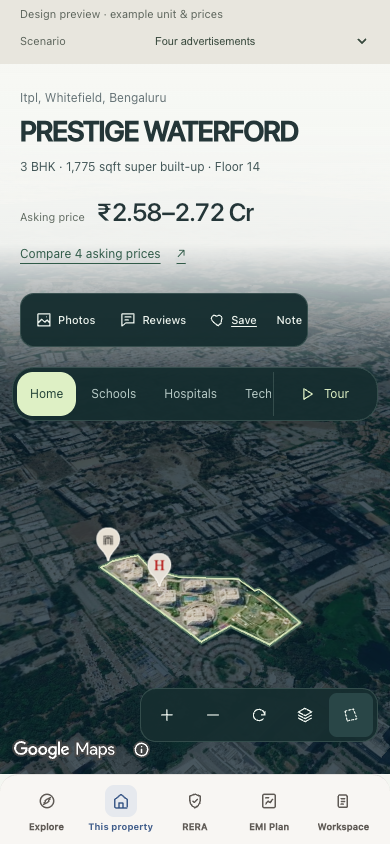
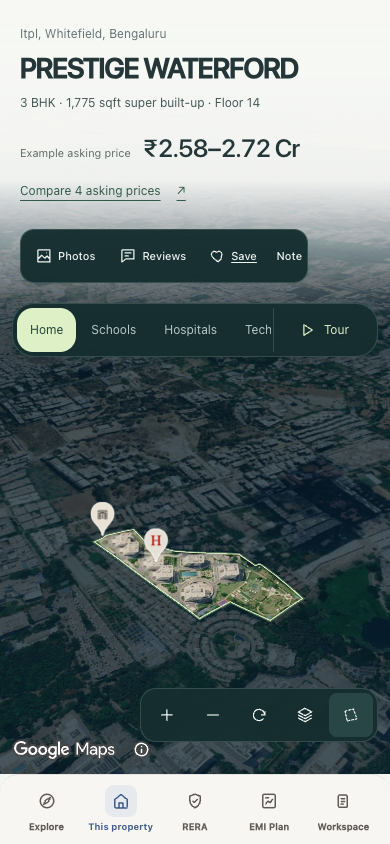
Remove Market trail and developer toolbar from property experience

diff --git a/frontend/src/components/property/PropertyAtlasContent.tsx b/frontend/src/components/property/PropertyAtlasContent.tsx
@@ -1,35 +1,7 @@
 import { useState } from "react";
-import { Link } from "react-router-dom";
-import type { PropertyDetailResponse, ProofFocus } from "../../lib/types.ts";
 import type { PropertyStoryModel } from "../../lib/propertyStory.ts";
-import { humanizeFactText, visibleEvidenceSections } from "../../lib/evidence.ts";
-import { hrefWithSearchSpan, searchSpanReferenceForTarget } from "../../lib/navigationContext.ts";
-import { useSearchSpan } from "../workspace/SearchSpanContext.ts";
 import { ImageWithFallback } from "../ImageWithFallback.tsx";
 import { AtlasIcon } from "./AtlasIcon.tsx";
-
-type EvidenceSection = NonNullable<PropertyDetailResponse["evidence"]>["sections"][number];
-
-function compactMarketItems(section: EvidenceSection) {
-  const seenSources = new Set<string>();
-  const limit = section.presentation?.max_preview_items ?? 6;
-  return section.items
-    .filter((item) => item.value?.trim() || item.values?.length)
-    .filter((item) => {
-      const sourceIdentity = item.source_url?.trim();
-      if (!sourceIdentity) return true;
-      if (seenSources.has(sourceIdentity)) return false;
-      seenSources.add(sourceIdentity);
-      return true;
-    })
-    .slice(0, limit);
-}
-
-function marketValue(item: ReturnType<typeof compactMarketItems>[number]) {
-  const value = humanizeFactText(item.values?.length ? item.values.join(" · ") : item.value).trim();
-  const separator = value.indexOf(":");
-  return separator > 0 && separator < 64 ? value.slice(separator + 1).trim() : value;
-}
 
 export function PropertyAtlasPhotos({ story }: { story: PropertyStoryModel }) {
   const [index, setIndex] = useState(0);
@@ -54,45 +26,5 @@ export function PropertyAtlasPhotos({ story }: { story: PropertyStoryModel }) {
       </div>
       {frame?.sourceUrl && <a href={frame.sourceUrl} target="_blank" rel="noreferrer">Source ↗</a>}
     </div>
-  );
-}
-
-/** The lower property chapter owns market context; other evidence stays on its primary surface. */
-export function PropertyAtlasFacts({ data, story, focus }: {
-  data: PropertyDetailResponse;
-  story: PropertyStoryModel;
-  focus?: ProofFocus;
-}) {
-  const searchContext = useSearchSpan();
-  const sections = visibleEvidenceSections(data.evidence?.sections);
-  const market = sections.find((section) => section.kind === "market");
-  const items = market ? compactMarketItems(market) : [];
-  const records = [...new Map(story.recordCards.map(record => [record.href, record])).values()];
-  if (!market && !records.length) return null;
-  const focused = Boolean(market && focus?.destinationKind === "section" && market.items.some(item =>
-    item.key === focus.factKey && (!focus.entityId || item.entity_id === focus.entityId)));
-  return (
-    <section className="property-atlas-facts" aria-label="Property information">
-      <header>
-        <h2>{market?.title ?? "Market trail"}</h2>
-        {records.length > 0 && <nav aria-label="Property reports">
-          {records.map(record => <Link key={record.href} to={hrefWithSearchSpan(record.href, searchSpanReferenceForTarget(searchContext, data.property.id))}>
-            {record.label}<span aria-hidden="true"> ↗</span>
-          </Link>)}
-        </nav>}
-      </header>
-      {market && items.length > 0 ? (
-        <dl id="property-topic-market" tabIndex={-1} data-proof-focused={focused || undefined}>
-          {items.map((item, index) => (
-            <div key={`${item.entity_id}:${item.key ?? item.label}:${index}`}>
-              <dt>{item.label}</dt>
-              <dd>{marketValue(item)}
-                {item.source_url && <a href={item.source_url} target="_blank" rel="noreferrer" aria-label={`Open source for ${item.label}`}>↗</a>}
-              </dd>
-            </div>
-          ))}
-        </dl>
-      ) : null}
-    </section>
   );
 }

diff --git a/frontend/prototypes/inventory-truth/IntegratedProperty.tsx b/frontend/prototypes/inventory-truth/IntegratedProperty.tsx
@@ -3,21 +3,20 @@ import { useParams, useSearchParams } from "react-router-dom";
 import { PropertyPage } from "../../src/pages/PropertyPage.tsx";
 import fixture from "../../fixtures/prestige-waterford-api/manifest.json";
 import { getCatalog, getDetail } from "./api.ts";
-import type { InventoryCatalog } from "./generated/InventoryCatalog.ts";
 import type { InventoryDetail } from "./generated/InventoryDetail.ts";
 import { InventoryReceipts } from "./InventoryEvidence.tsx";
 import { askingPrice, clue, labels, physicalFacts } from "./presentation.ts";
 import "./preview.css";
 import "./integrated.css";
 
-type Load = { key: string; catalog: InventoryCatalog; detail: InventoryDetail };
+type Load = { key: string; detail: InventoryDetail };
 
 /** Dev-only binding: archived society context + explicitly selected example unit.
  * Imported only by Vite's inventory mode, never the production route bundle.
  */
 export function IntegratedProperty() {
   const { id } = useParams();
-  const [params, setParams] = useSearchParams();
+  const [params] = useSearchParams();
   const scenario = params.get("scenario") ?? "four-ads";
   const [loaded, setLoaded] = useState<Load>();
   const [failure, setFailure] = useState<{ key: string; message: string }>();
@@ -28,7 +27,7 @@ export function IntegratedProperty() {
     const controller = new AbortController();
     void getCatalog(controller.signal).then(async catalog => {
       const detail = await getDetail(scenario, catalog.snapshot_id, controller.signal);
-      if (!controller.signal.aborted) setLoaded({ key, catalog, detail });
+      if (!controller.signal.aborted) setLoaded({ key, detail });
     }).catch((cause: unknown) => {
       if (!controller.signal.aborted) setFailure({ key, message: cause instanceof Error ? cause.message : "Asking prices couldn’t be loaded." });
     });
@@ -48,25 +47,17 @@ export function IntegratedProperty() {
     : copy.single) : "";
 
   return <div className="inventory-integrated">
-    <div className="inventory-preview-bar">
-      <span>Design preview · example unit & prices</span>
-      {loaded && <label>Scenario<select aria-label="Scenario" value={scenario} onChange={event => {
-        const next = new URLSearchParams(params);
-        next.set("scenario", event.target.value);
-        setParams(next, { preventScrollReset: true });
-      }}>{loaded.catalog.homes.map(item => <option key={item.home.id} value={item.home.id}>{item.home.scenario}</option>)}</select></label>}
-    </div>
     {ready && summary ? <PropertyPage homeIdentity={{
       propertyId: fixture.property_id,
       facts: physicalFacts(summary.home).map((value, index) => ({ key: String(index), value })),
       detail: {
         summary: <div className="inventory-integrated__ask">
-          <span>{summary.ask ? "Asking price" : "No active asking price"}</span>
+          <span>{summary.ask ? copy.exampleAsk : copy.exampleUnavailable}</span>
           {summary.ask && <strong>{askingPrice(summary.ask)}</strong>}
         </div>,
         label: action,
         title: copy.title,
-        content: <InventoryReceipts key={`${scenario}:${ready.catalog.snapshot_id}`} detail={ready.detail} />,
+        content: <InventoryReceipts key={`${scenario}:${ready.detail.snapshot_id}`} detail={ready.detail} />,
       },
     }} /> : <div className="inventory-integrated__state" role={error ? "alert" : "status"}>
       <p>{error ?? "Loading home…"}</p>

diff --git a/frontend/src/styles/property-arrival.css b/frontend/src/styles/property-arrival.css
@@ -666,22 +666,3 @@
 .property-atlas-reviews:focus, .property-arrival-map--atlas:focus { outline: none; }
 
 .property-atlas__status { position: absolute; z-index: 5; left: 32px; bottom: 80px; max-width: calc(100% - 144px); margin: 0; color: #eef5ef; text-shadow: 0 1px 4px #000; font-size: 14px; }
-.property-atlas-facts { padding: clamp(56px, 7vw, 88px) clamp(24px, 5vw, 80px) clamp(64px, 8vw, 104px); background: #eef2ed; color: #243638; }
-.property-atlas-facts > header { display: flex; align-items: baseline; justify-content: space-between; gap: 24px; margin-bottom: clamp(28px, 4vw, 44px); }
-.property-atlas-facts h2 { margin: 0; font-size: clamp(24px, 2.4vw, 34px); font-weight: 550; letter-spacing: -0.035em; }
-.property-atlas-facts nav { display: flex; flex-wrap: wrap; justify-content: flex-end; gap: 18px; }
-.property-atlas-facts nav a { color: #3e6450; font-size: 13px; text-underline-offset: 4px; }
-.property-atlas-facts dl { display: grid; grid-template-columns: repeat(2, minmax(0, 1fr)); gap: 0 clamp(32px, 6vw, 88px); margin: 0; scroll-margin-top: 24px; }
-.property-atlas-facts dl > div { display: grid; grid-template-columns: minmax(112px, 0.8fr) minmax(0, 1.4fr); gap: 20px; padding: 18px 0; border-top: 1px solid #24363820; }
-.property-atlas-facts dt { color: #526760; font-size: 12px; line-height: 1.5; }
-.property-atlas-facts dd { margin: 0; font-size: 14px; font-weight: 520; line-height: 1.55; overflow-wrap: anywhere; }
-.property-atlas-facts dd a { display: inline-grid; place-items: center; width: 28px; height: 28px; margin: -6px 0 -6px 8px; border-radius: 999px; color: #3e6450; font-size: 13px; text-decoration: none; }
-.property-atlas-facts dd a:hover { background: #2436380c; }
-.property-atlas-facts :is(a, dl):focus-visible { outline: 2px solid #257b7a; outline-offset: 4px; }
-
-@media (max-width: 720px) {
-  .property-atlas-facts > header { align-items: flex-start; flex-direction: column; gap: 12px; }
-  .property-atlas-facts nav { justify-content: flex-start; }
-  .property-atlas-facts dl { grid-template-columns: 1fr; }
-  .property-atlas-facts dl > div { grid-template-columns: minmax(96px, 0.75fr) minmax(0, 1.5fr); gap: 16px; }
-}

diff --git a/frontend/prototypes/inventory-truth/integrated.css b/frontend/prototypes/inventory-truth/integrated.css
@@ -1,14 +1,10 @@
 .inventory-integrated {
-  --inventory-preview-height: 44px;
   --inventory-ink: #243638;
   --inventory-muted: #626c63;
   --inventory-rule: #263b3129;
   color: var(--inventory-ink);
 }
-.inventory-integrated .property-arrival-map--atlas { height: calc(100dvh - var(--inventory-preview-height)); }
 .inventory-integrated :is(button, summary, a, select):focus-visible { outline: 2px solid #a45137; outline-offset: 3px; }
-.inventory-integrated .inventory-preview-bar { padding-inline: 32px; }
-.inventory-integrated .inventory-preview-bar select { min-height: 36px; }
 .inventory-integrated__ask { display: flex; align-items: baseline; flex-wrap: wrap; gap: 6px 12px; }
 .inventory-integrated__ask > span { font-size: 11px; color: var(--inventory-muted); }
 .inventory-integrated__ask > strong { font-size: clamp(23px, 2.4vw, 30px); font-weight: 550; letter-spacing: -.04em; font-variant-numeric: tabular-nums; }
@@ -27,16 +23,7 @@
 .inventory-integrated .property-atlas__drawer--detail h2 { font-size: 18px; }
 .inventory-integrated .property-atlas__drawer--detail .inventory-evidence__body { overflow: visible; padding-inline: 24px; }
 .inventory-integrated .inventory-evidence__footer { margin-top: 16px; }
-@media (max-width: 860px) {
-  .workspace-shell:not(.workspace-shell--plain) .inventory-integrated .property-arrival-map--atlas { height: calc(100dvh - 4.35rem - env(safe-area-inset-bottom) - var(--inventory-preview-height)); }
-}
-@media (max-width: 760px) {
-  .inventory-integrated { --inventory-preview-height: 64px; }
-}
 @media (max-width: 560px) {
-  .inventory-integrated .inventory-preview-bar { padding-inline: 20px; }
-  .inventory-integrated .inventory-preview-bar label { gap: 4px; }
-  .inventory-integrated .inventory-preview-bar select { max-width: 230px; }
   .inventory-integrated__ask > strong { font-size: 25px; }
   .inventory-integrated .property-atlas__drawer--detail { width: auto; }
 }

diff --git a/frontend/e2e/atlas/waterford.spec.ts b/frontend/e2e/atlas/waterford.spec.ts
@@ -1,21 +1,15 @@
 import { expect, test } from "@playwright/test";
 
 // Archived renderer fixture. Source admission and receipt completeness use the materialized API journey.
-test("captured facts, reviews and photos remain accessible without Google", async ({ page }, testInfo) => {
+test("reviews, photos and RERA remain accessible without Google or Market trail", async ({ page }) => {
   await page.route("https://maps.googleapis.com/**", route => route.abort());
   await page.goto("/property/discovered-prestige-waterford-3bhk");
   const canvas = page.locator(".property-arrival-map--atlas");
   await expect(canvas.getByRole("button", { name: "Retry map" })).toBeVisible();
-  const facts = page.getByRole("region", { name: "Property information", exact: true });
-  await expect(facts.getByRole("heading", { name: "Market trail", exact: true })).toBeVisible();
-  await expect(facts.getByRole("link", { name: "Official record", exact: true }))
+  await expect(page.getByRole("heading", { name: "Market trail", exact: true })).toHaveCount(0);
+  await expect(page.locator(".property-atlas-facts, #property-topic-market")).toHaveCount(0);
+  await expect(page.getByRole("navigation", { name: "Property navigation" }).getByRole("link", { name: "RERA", exact: true }))
     .toHaveAttribute("href", "/property/discovered-prestige-waterford-3bhk/rera");
-  await expect(facts.locator("summary")).toHaveCount(0);
-  await facts.screenshot({ path: testInfo.outputPath("market-trail.png") });
-  const recordLinks = await facts.getByRole("navigation", { name: "Property reports" })
-    .locator("a").evaluateAll(links => links.map(link => link.getAttribute("href")));
-  expect(recordLinks.length).toBeGreaterThan(0);
-  expect(new Set(recordLinks).size).toBe(recordLinks.length);
 
   await canvas.getByRole("button", { name: "Reviews", exact: true }).click();
   const reviews = page.locator("#resident-voice");

diff --git a/frontend/e2e/inventory/integrated.spec.ts b/frontend/e2e/inventory/integrated.spec.ts
@@ -9,6 +9,9 @@ test("real property page shares one panel across price, photos, places and notes
   page.on("pageerror", error => errors.push(error.message));
   await page.goto(`${property}?scenario=four-ads`);
   await expect(price(page)).toHaveText("Compare 4 asking prices↗");
+  await expect(page.locator(".inventory-preview-bar, .property-atlas-facts")).toHaveCount(0);
+  await expect(page.getByRole("combobox", { name: "Scenario" })).toHaveCount(0);
+  await expect(page.locator(".inventory-integrated__ask")).toContainText("Example asking price");
   await expect(page.locator(".workspace-sidebar")).toBeVisible();
   await expect(page.locator(".property-atlas__identity")).toContainText("Floor 14");
   await expect(page.locator(".property-atlas__identity")).not.toContainText("₹3.45");
@@ -91,11 +94,9 @@ test("mobile receipts fit above navigation with independent scroll and focus ret
   }
 });
 
-test("integrated scenario switching retains exclusions, same-ad history and missing asks", async ({ page }, info) => {
-  await page.goto(property);
-  await expect(price(page)).toBeVisible();
+test("developer scenario URLs retain exclusions, same-ad history and missing asks", async ({ page }, info) => {
   for (const scenario of ["uncertain", "reduction", "withdrawn", "long-source", "comparables", "one-active", "single", "sparse", "owner-broker"]) {
-    await page.getByRole("combobox", { name: "Scenario" }).selectOption(scenario);
+    await page.goto(`${property}?scenario=${scenario}`);
     await expect(page).toHaveURL(new RegExp(`scenario=${scenario}`));
     await expect(price(page)).toBeVisible();
     if (scenario === "reduction") await expect(price(page)).toContainText("₹7 L lower");

diff --git a/frontend/src/pages/PropertyPage.tsx b/frontend/src/pages/PropertyPage.tsx
@@ -32,7 +32,7 @@ import { SaveHeartButton } from "../components/SaveHeartButton.tsx";
 import { PUBLIC_BRAND_NAME } from "../lib/brand.ts";
 import { PropertyArrivalFilm } from "../components/property/PropertyArrivalFilm.tsx";
 import { PropertyArrivalMap } from "../components/property/PropertyArrivalMap.tsx";
-import { PropertyAtlasFacts, PropertyAtlasPhotos } from "../components/property/PropertyAtlasContent.tsx";
+import { PropertyAtlasPhotos } from "../components/property/PropertyAtlasContent.tsx";
 import { GoogleReviewsSection } from "../components/property/GoogleReviewsSection.tsx";
 import { AtlasIcon } from "../components/property/AtlasIcon.tsx";
 import { PropertyReviewsDeck } from "../components/property/PropertyReviewsDeck.tsx";
@@ -611,7 +611,6 @@ function PropertyPageBody({
           <GoogleReviewsSection reviews={data.external_reviews} expandable />
         </section>}
         <PropertySearchMatch data={data} focus={proofFocus} />
-        <PropertyAtlasFacts data={data} story={story} focus={proofFocus} />
       </div>
     );
   }

diff --git a/docs/inventory-truth-design.md b/docs/inventory-truth-design.md
@@ -2,6 +2,25 @@
 
 ## Current decision: integrate with the real property page
 
+Follow-up cleanup: removed Market trail entirely from the property page, including
+its report shelf, formatting helpers and CSS. RERA remains in the existing property
+navigation; backend facts and search receipts are unchanged. The atlas contract now
+asserts the retired section is absent and the RERA link survives. Its old assertions
+about the shelf heading, disclosures and duplicate report links are retired with
+that surface, rather than copied into another section.
+
+Removed the full-width design-preview/scenario toolbar after buyer feedback.
+Scenarios now use developer URLs, e.g. `?scenario=uncertain`. The existing price
+label says “Example asking price”; the receipt footer retains the mock-data notice.
+No new interaction is introduced, so no additional ThreeUI pattern is needed.
+UI-critic/React review favored deleting the extra chrome and its height offsets.
+The nine inventory browser journeys, updated RERA/reviews/photos atlas contract,
+307 frontend tests, lint, production/prototype builds and diff check pass for this
+cleanup. Updated resting/panel screenshots below show the toolbar removal;
+[desktop page ending](assets/inventory-truth/integrated-desktop-bottom.png) and
+[mobile page ending](assets/inventory-truth/integrated-mobile-bottom.png) show
+reviews without a Market trail shelf underneath.
+
 The first standalone prototype made the evidence legible, but did not prove its
 place among the property's controls. Following buyer feedback, the primary preview
 now uses the actual PropertyPage, WorkspaceFrame, Google atlas, photos, reviews,

diff --git a/frontend/prototypes/inventory-truth/README.md b/frontend/prototypes/inventory-truth/README.md
@@ -3,7 +3,7 @@
 The primary preview now runs inside the **actual PropertyPage and WorkspaceFrame**:
 the atlas, photos, reviews, Save, Note and sidebar are the existing components.
 An explicit dev-only adapter binds one example unit to the archived Waterford
-property context. The scenario picker switches alternative evidence states;
+property context. A developer-only `?scenario=` URL selects alternative evidence states;
 these are **not** ten real homes. Neither unit identity nor price is inferred
 from the society's name, measurements or project price range.
 
@@ -17,7 +17,9 @@ npm run dev:inventory
 ```
 
 Open http://127.0.0.1:5192/property/discovered-prestige-waterford-3bhk.
-Use the scenario selector for all ten states. This uses the normal property Save
+Use `?scenario=uncertain`, `?scenario=reduction`, or another scenario ID to test
+different states. There is no development toolbar on the property page; the
+price itself is marked as an example. This uses the normal property Save
 and Note controls on the preview origin; they refer to the fixture property, not
 to a newly promoted canonical unit. They do not modify storage on another origin.
 
